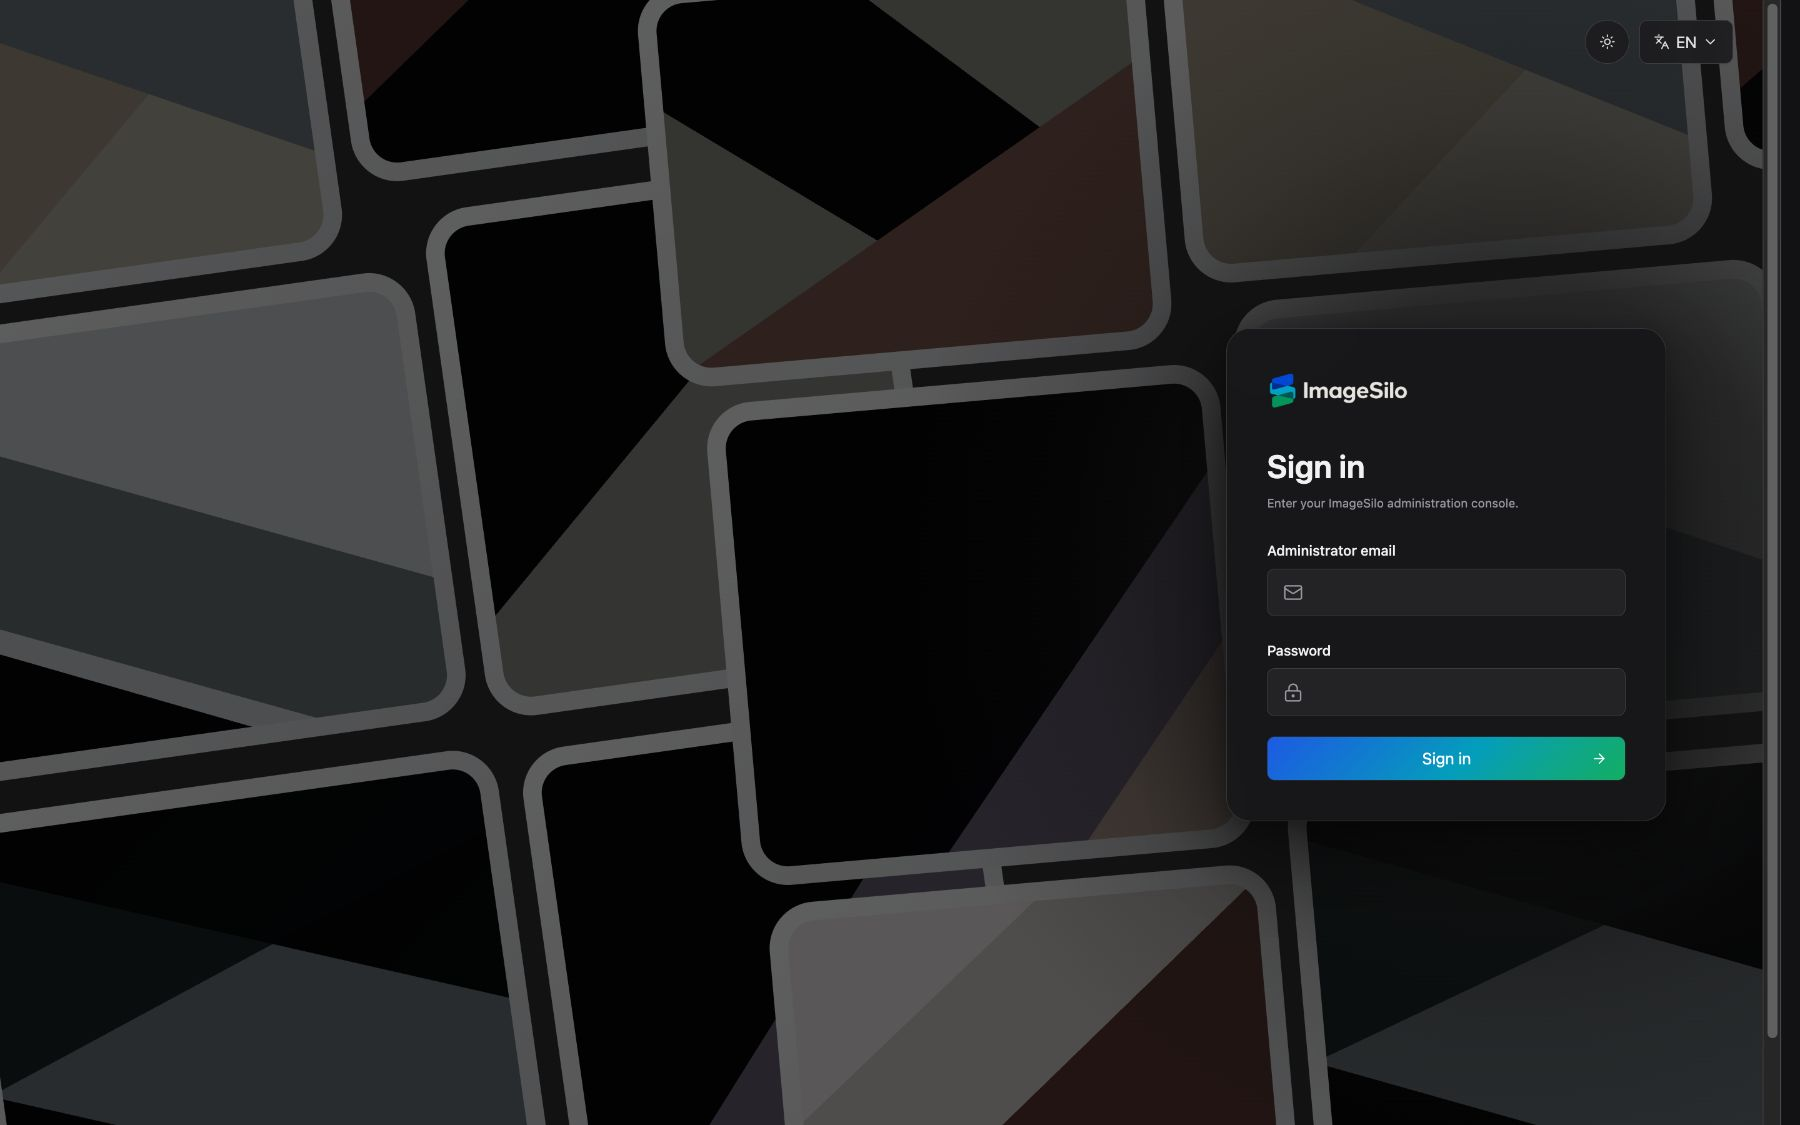
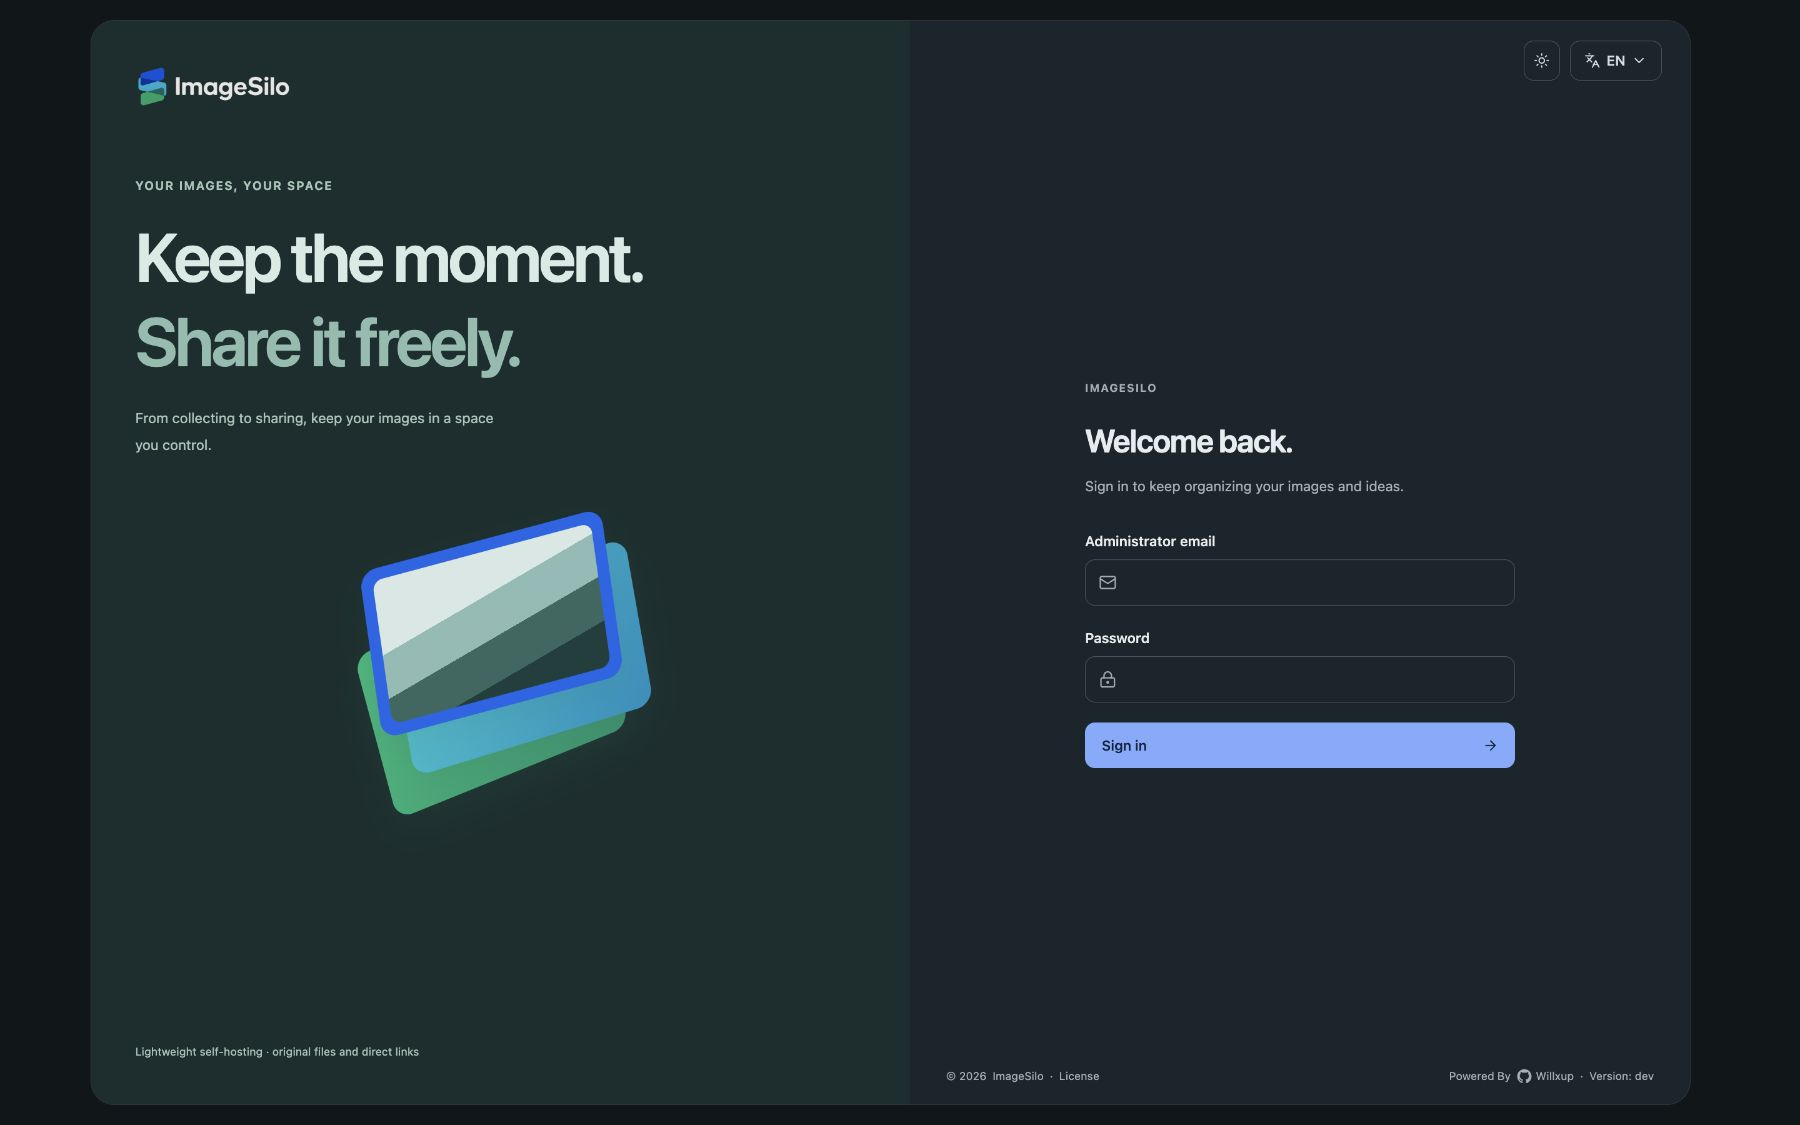
docs: refresh README screenshots for redesigned UI

diff --git a/README.zh.md b/README.zh.md
@@ -30,14 +30,20 @@ ImageSilo 是一个 Docker 优先的自托管图床：单个 Go 进程、SQLite 
 
 <p align="center">
   <picture>
-    <source media="(prefers-color-scheme: dark)" srcset="./assets/screenshots/login-dark.jpg" />
-    <source media="(prefers-color-scheme: light)" srcset="./assets/screenshots/login-light.jpg" />
-    <img src="./assets/screenshots/login-light.jpg" alt="ImageSilo 登录页" width="49%" />
+    <source media="(prefers-color-scheme: dark)" srcset="./assets/screenshots/gallery-dark-zh.jpg" />
+    <source media="(prefers-color-scheme: light)" srcset="./assets/screenshots/gallery-light-zh.jpg" />
+    <img src="./assets/screenshots/gallery-light-zh.jpg" alt="ImageSilo 图片库" width="100%" />
+  </picture>
+  <br />
+  <picture>
+    <source media="(prefers-color-scheme: dark)" srcset="./assets/screenshots/login-dark-zh.jpg" />
+    <source media="(prefers-color-scheme: light)" srcset="./assets/screenshots/login-light-zh.jpg" />
+    <img src="./assets/screenshots/login-light-zh.jpg" alt="ImageSilo 登录页" width="49%" />
   </picture>
   <picture>
-    <source media="(prefers-color-scheme: dark)" srcset="./assets/screenshots/upload-dark.jpg" />
-    <source media="(prefers-color-scheme: light)" srcset="./assets/screenshots/upload-light.jpg" />
-    <img src="./assets/screenshots/upload-light.jpg" alt="ImageSilo 图片上传页" width="49%" />
+    <source media="(prefers-color-scheme: dark)" srcset="./assets/screenshots/upload-dark-zh.jpg" />
+    <source media="(prefers-color-scheme: light)" srcset="./assets/screenshots/upload-light-zh.jpg" />
+    <img src="./assets/screenshots/upload-light-zh.jpg" alt="ImageSilo 图片上传页" width="49%" />
   </picture>
 </p>
 

diff --git a/README.md b/README.md
@@ -30,6 +30,12 @@ ImageSilo is a Docker-first image host built as one Go process with SQLite and l
 
 <p align="center">
   <picture>
+    <source media="(prefers-color-scheme: dark)" srcset="./assets/screenshots/gallery-dark.jpg" />
+    <source media="(prefers-color-scheme: light)" srcset="./assets/screenshots/gallery-light.jpg" />
+    <img src="./assets/screenshots/gallery-light.jpg" alt="ImageSilo image library" width="100%" />
+  </picture>
+  <br />
+  <picture>
     <source media="(prefers-color-scheme: dark)" srcset="./assets/screenshots/login-dark.jpg" />
     <source media="(prefers-color-scheme: light)" srcset="./assets/screenshots/login-light.jpg" />
     <img src="./assets/screenshots/login-light.jpg" alt="ImageSilo sign-in page" width="49%" />
